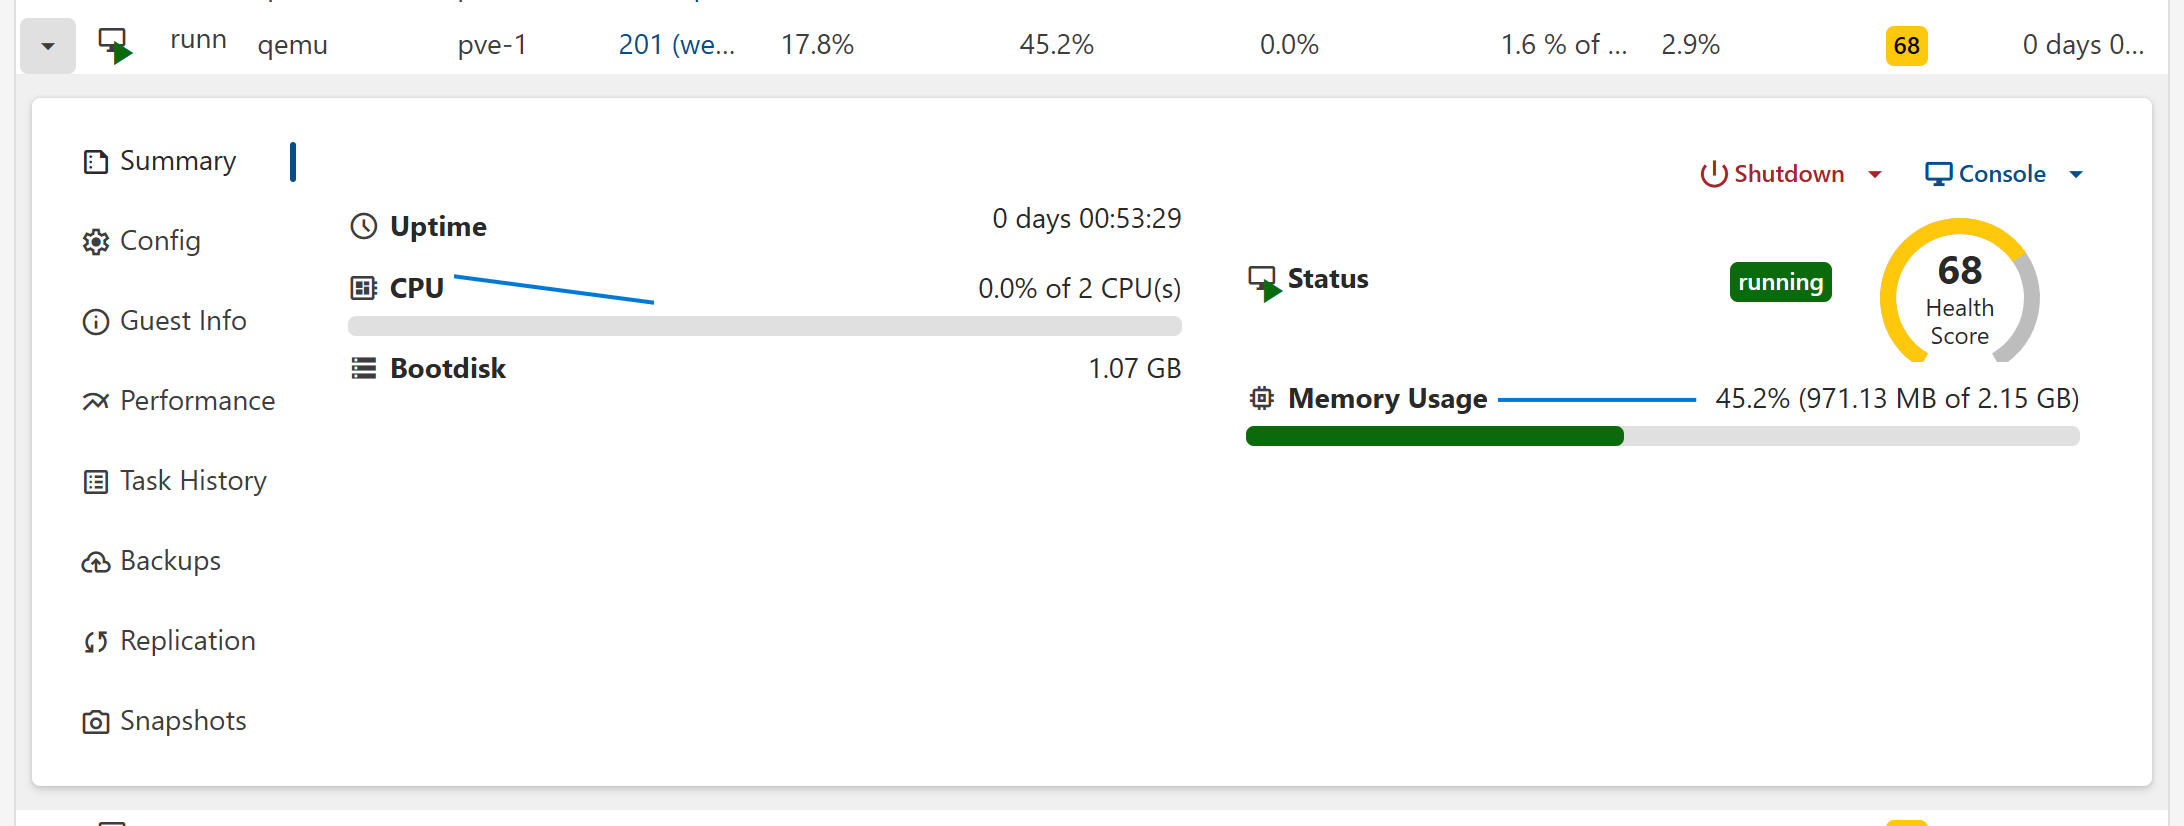
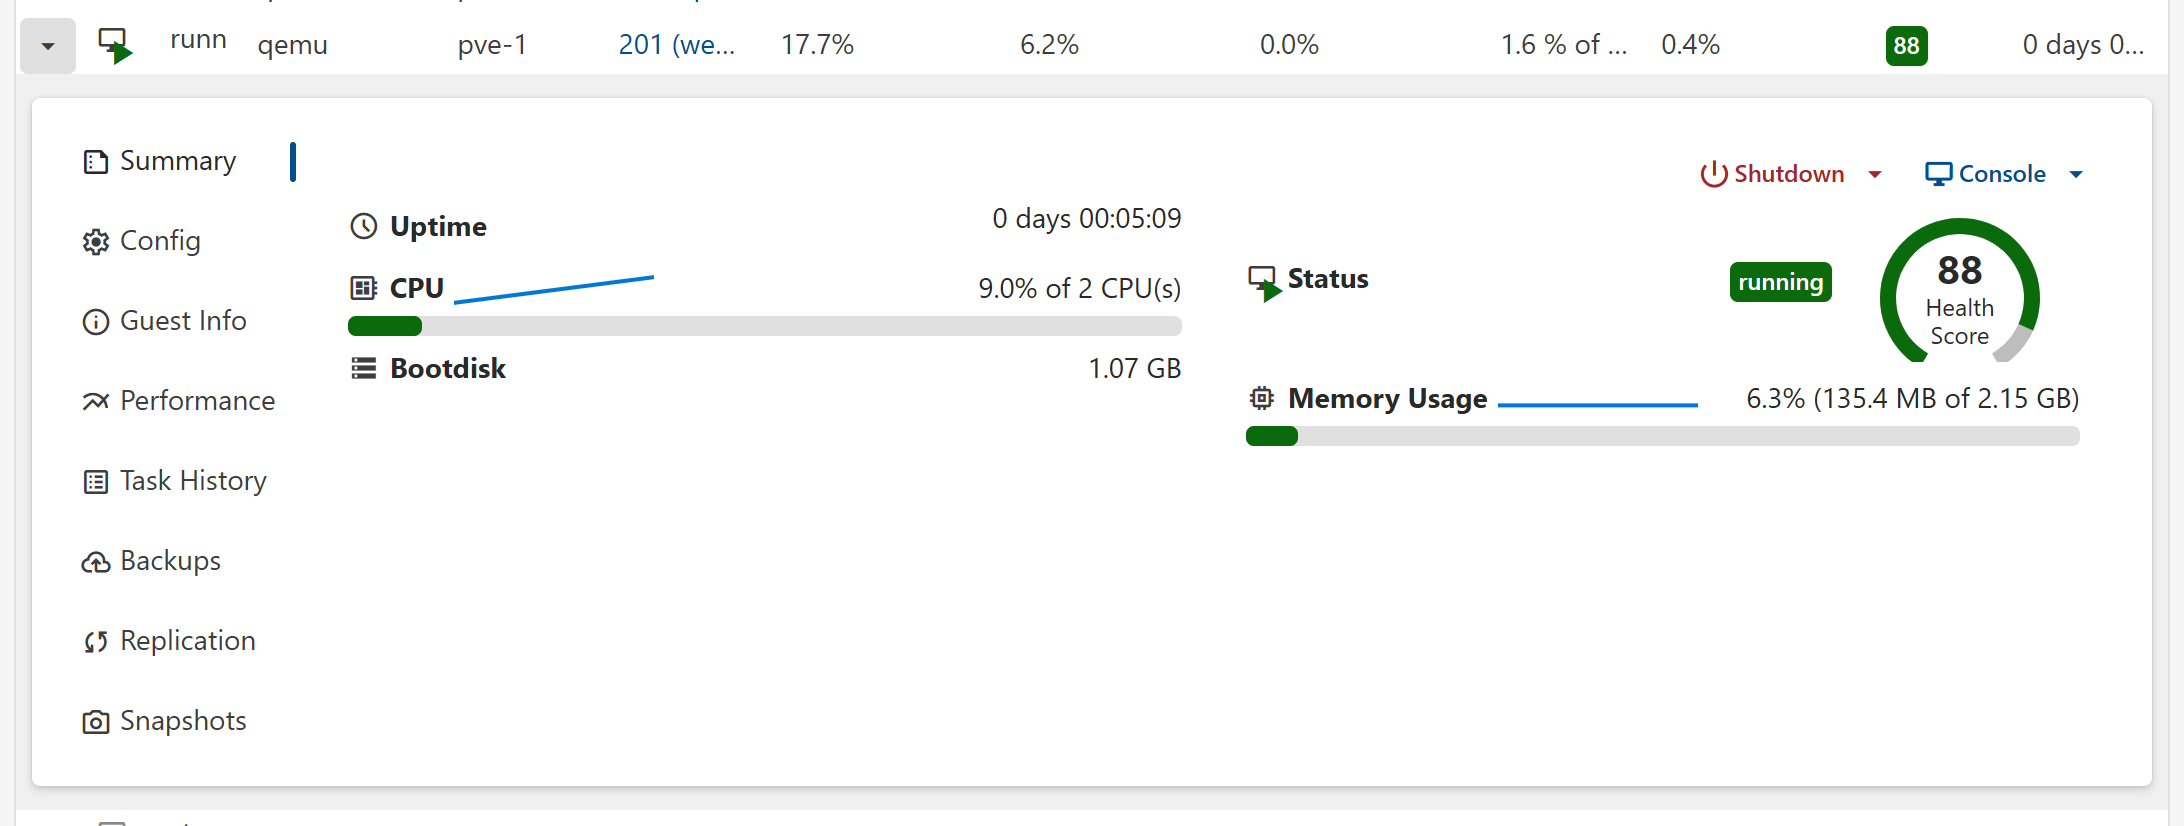
docs: hook editor, full dashboard, node and guest detail with the Summary tab, network diagram, workflow designer and run; scrollTo action and per-shot viewport

diff --git a/docs/CONTRIBUTING.md b/docs/CONTRIBUTING.md
@@ -146,7 +146,7 @@ A procedure is the Starlight `Steps` component; alternatives for the same step (
 
 Screenshots are generated, never taken by hand, so that they can be rebuilt when the interface changes.
 
-- Each screenshot is an entry of `scripts/screenshots/shots.json`: the page to open, the actions before the shot (`fill`, `click`, `press`, `waitFor`, `wait`), the checks on the page (`expect`), the crop (`clip`) and the marks: numbered `badges` on the controls named in the step, `boxes` around what the text points at.
+- Each screenshot is an entry of `scripts/screenshots/shots.json`: the page to open, the actions before the shot (`fill`, `click`, `press`, `waitFor`, `wait`, `scrollTo` for a control below the fold of a dialog), the checks on the page (`expect`), the window size when the default one is too small (`viewport`, for example a designer), the crop (`clip`) and the marks: numbered `badges` on the controls named in the step, `boxes` around what the text points at.
 - `node scripts/screenshots/capture.mjs [id ...]` takes them from a running cv4pve-admin with test data only (default `http://127.0.0.1:7260`) and writes them to `src/assets/images/screenshots/`. Never from an installation with real data: what is on the screen ends up in the public documentation.
 - A shot with `"edition": "ee"` is taken from the Enterprise instance (`CV4PVE_DOCS_URL_EE`, default `http://127.0.0.1:7271`), for the pages that the Community Edition shows as a subscription notice.
 - One image per step, with the edition chosen per step: the image that presents a page common to both editions comes from the Community Edition (a button with the subscription key already says it is Enterprise), a step that explains an Enterprise action uses an Enterprise image with the button active and its badge. Never the same screen twice, once per edition, unless the step cannot be understood with one image: then two tabs, Community and Enterprise.
